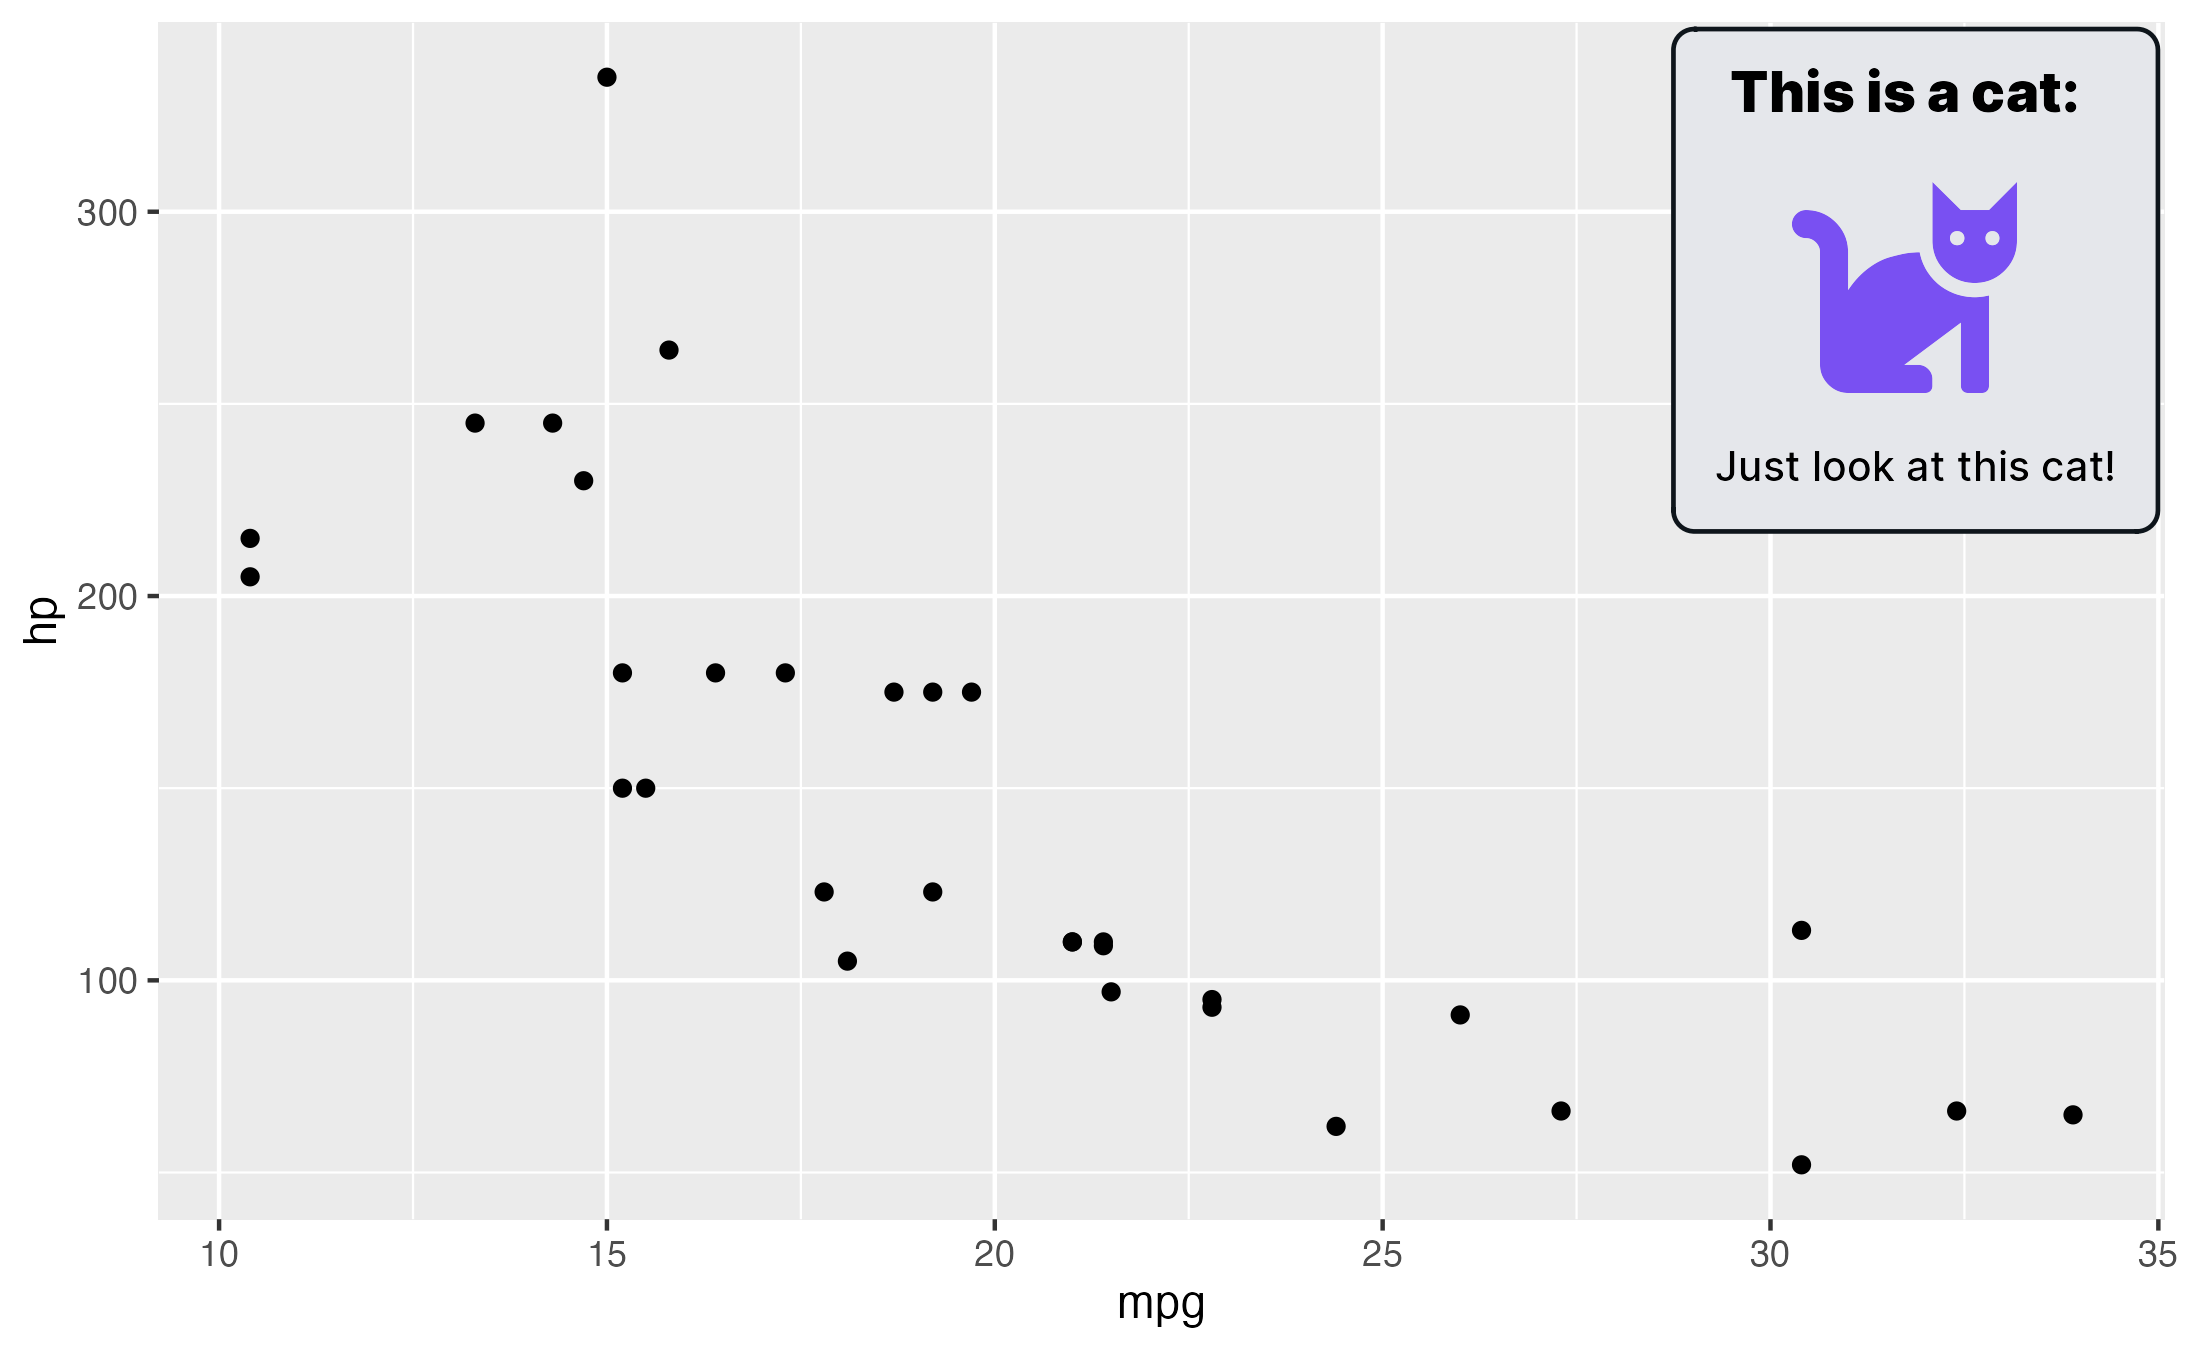
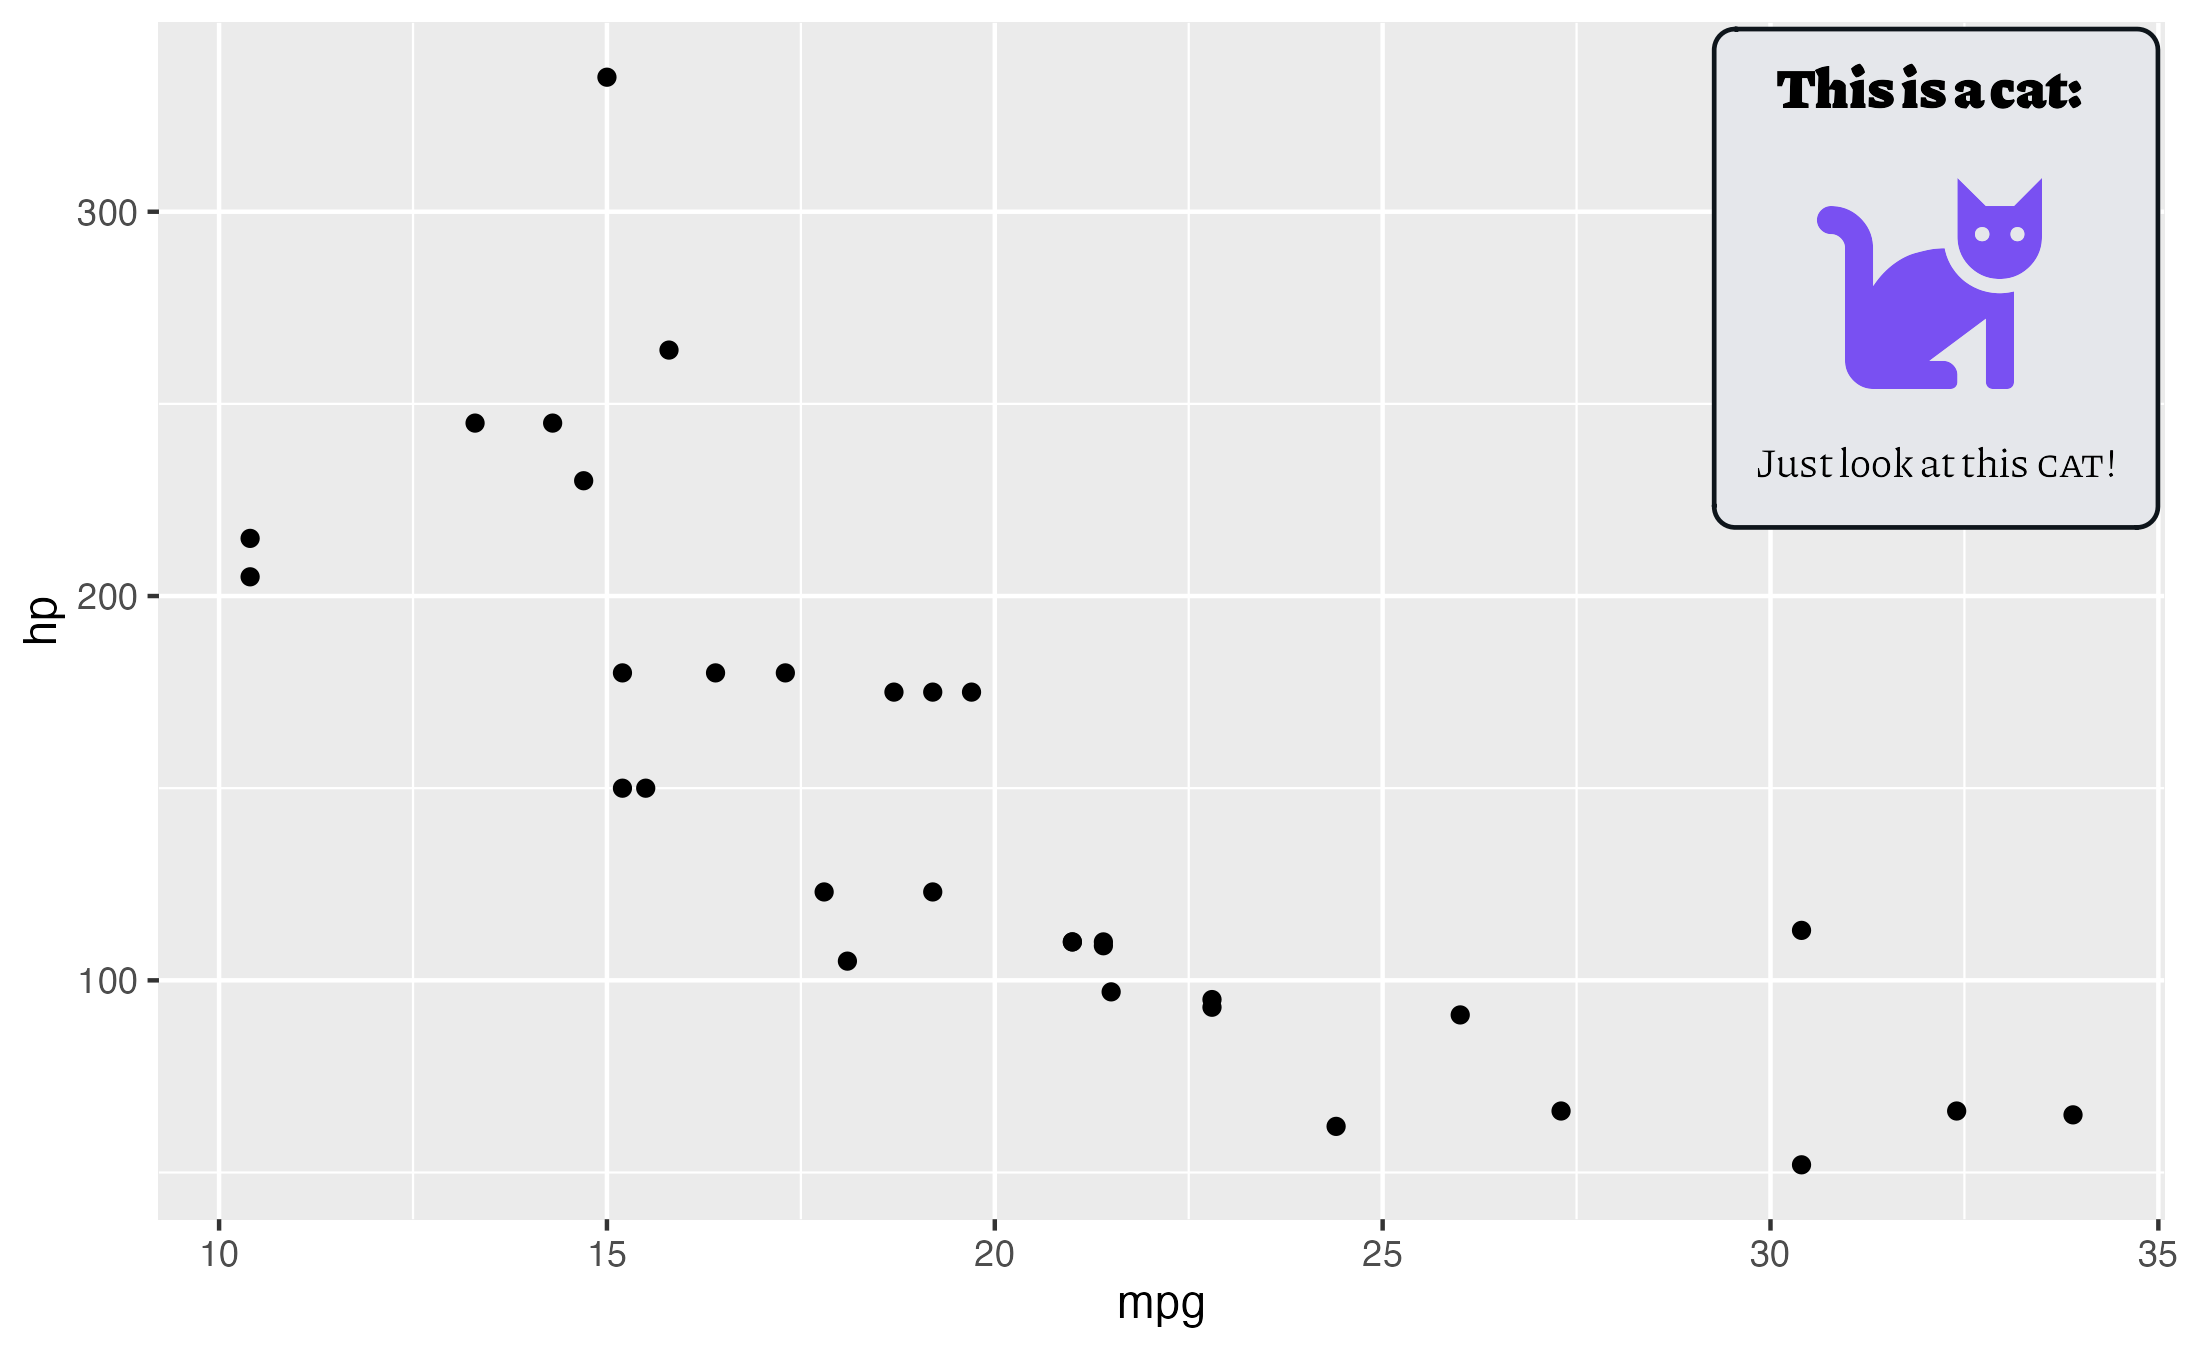
Built site for penngradlings: 0.0.0.9000@8d81452

Changed region(s): [[0.7462, 0.1244, 0.995, 0.4041], [0.7773, 0.0311, 0.9639, 0.0933]]

diff --git a/articles/custom-functions.html b/articles/custom-functions.html
@@ -109,6 +109,7 @@
 <div class="sourceCode" id="cb1"><pre class="downlit sourceCode r">
 <code class="sourceCode R"><span class="kw"><a href="https://rdrr.io/r/base/library.html">library</a></span><span class="op">(</span><span class="va"><a href="https://github.com/yjunechoe/penngradlings">penngradlings</a></span><span class="op">)</span>
 <span class="kw"><a href="https://rdrr.io/r/base/library.html">library</a></span><span class="op">(</span><span class="va"><a href="https://ggplot2.tidyverse.org">ggplot2</a></span><span class="op">)</span>
+<span class="kw"><a href="https://rdrr.io/r/base/library.html">library</a></span><span class="op">(</span><span class="va">grid</span><span class="op">)</span>
 <span class="kw"><a href="https://rdrr.io/r/base/library.html">library</a></span><span class="op">(</span><span class="va"><a href="https://wilkelab.org/gridtext/">gridtext</a></span><span class="op">)</span></code></pre></div>
 </div>
 <div id="themes" class="section level2">
@@ -134,23 +135,38 @@
 </h3>
 <div class="sourceCode" id="cb3"><pre class="downlit sourceCode r">
 <code class="sourceCode R"><span class="va">annotation</span> <span class="op">&lt;-</span> <span class="st">"
-  &lt;span style=\"font-size:18px; font-family:'Inter-Black';\"&gt;
+  &lt;span style=\"font-size:18px; font-family:'Piazzolla-Black';\"&gt;
    This is a cat:&lt;/span&gt;
   &lt;br&gt;&lt;br&gt;
   &lt;span style=\"font-size:72px; color:'#7950F2';
    font-family:'FontAwesome5-Solid';\"&gt;cat&lt;/span&gt;
   &lt;br&gt;&lt;br&gt;
-  Just look at this cat!
+  Just look at this
+  &lt;span style=\"font-family:'PiazzollaSC-Regular';\"&gt;cat!&lt;/span&gt;
 "</span>
 
-<span class="va">tbox</span> <span class="op">&lt;-</span> <span class="fu"><a href="../reference/annotation_textbox.html">annotation_textbox</a></span><span class="op">(</span>
-   html <span class="op">=</span> <span class="va">annotation</span>,
-   position <span class="op">=</span> <span class="st">"top-right"</span>,
-   halign <span class="op">=</span> <span class="fl">0.5</span>
- <span class="op">)</span>
+<span class="va">tbox1</span> <span class="op">&lt;-</span> <span class="fu"><a href="../reference/annotation_textbox.html">annotation_textbox</a></span><span class="op">(</span>
+  html <span class="op">=</span> <span class="va">annotation</span>,
+  position <span class="op">=</span> <span class="st">"top-right"</span>,
+  halign <span class="op">=</span> <span class="fl">0.5</span>,
+<span class="op">)</span>
 
-<span class="va">p</span> <span class="op">+</span> <span class="fu"><a href="https://ggplot2.tidyverse.org/reference/annotation_custom.html">annotation_custom</a></span><span class="op">(</span><span class="va">tbox</span><span class="op">)</span></code></pre></div>
+<span class="va">p</span> <span class="op">+</span> <span class="fu"><a href="https://ggplot2.tidyverse.org/reference/annotation_custom.html">annotation_custom</a></span><span class="op">(</span><span class="va">tbox1</span><span class="op">)</span></code></pre></div>
 <p><img src="custom-functions_files/figure-html/unnamed-chunk-3-1.png" width="1093.75"></p>
+<div class="sourceCode" id="cb4"><pre class="downlit sourceCode r">
+<code class="sourceCode R"><span class="va">tbox2</span> <span class="op">&lt;-</span> <span class="fu"><a href="../reference/annotation_textbox.html">annotation_textbox</a></span><span class="op">(</span>
+  html <span class="op">=</span> <span class="va">annotation</span>,
+  position <span class="op">=</span> <span class="st">"center"</span>,
+  halign <span class="op">=</span> <span class="fl">0.5</span>,
+  valign <span class="op">=</span> <span class="fl">0.5</span>,
+  x_offset <span class="op">=</span> <span class="op">-</span><span class="fl">0.1</span>,
+  y_offset <span class="op">=</span> <span class="fl">0.1</span>,
+  width <span class="op">=</span> <span class="fl">0.4</span>,
+  height <span class="op">=</span> <span class="fl">0.5</span>
+<span class="op">)</span>
+
+<span class="va">p</span> <span class="op">+</span> <span class="fu"><a href="https://ggplot2.tidyverse.org/reference/annotation_custom.html">annotation_custom</a></span><span class="op">(</span><span class="va">tbox2</span><span class="op">)</span></code></pre></div>
+<p><img src="custom-functions_files/figure-html/unnamed-chunk-4-1.png" width="1093.75"></p>
 </div>
 </div>
   </div>

diff --git a/reference/annotation_textbox.html b/reference/annotation_textbox.html
@@ -149,7 +149,7 @@
   height <span class='op'>=</span> <span class='cn'>NULL</span>,
   x_offset <span class='op'>=</span> <span class='fl'>0</span>,
   y_offset <span class='op'>=</span> <span class='fl'>0</span>,
-  gp <span class='op'>=</span> <span class='fu'>grid</span><span class='fu'>::</span><span class='fu'><a href='https://rdrr.io/r/grid/gpar.html'>gpar</a></span><span class='op'>(</span>fontsize <span class='op'>=</span> <span class='fl'>10</span>, lineheight <span class='op'>=</span> <span class='fl'>1.4</span>, fontfamily <span class='op'>=</span> <span class='st'>"Inter-Medium"</span><span class='op'>)</span>,
+  gp <span class='op'>=</span> <span class='fu'>grid</span><span class='fu'>::</span><span class='fu'><a href='https://rdrr.io/r/grid/gpar.html'>gpar</a></span><span class='op'>(</span>fontsize <span class='op'>=</span> <span class='fl'>10</span>, lineheight <span class='op'>=</span> <span class='fl'>1.4</span>, fontfamily <span class='op'>=</span> <span class='st'>"Piazzolla-Regular"</span><span class='op'>)</span>,
   box_gp <span class='op'>=</span> <span class='fu'>grid</span><span class='fu'>::</span><span class='fu'><a href='https://rdrr.io/r/grid/gpar.html'>gpar</a></span><span class='op'>(</span>col <span class='op'>=</span> <span class='st'>"#0E151B"</span>, fill <span class='op'>=</span> <span class='st'>"#e5e7eb"</span>, lwd <span class='op'>=</span> <span class='fu'>grid</span><span class='fu'>::</span><span class='fu'><a href='https://rdrr.io/r/grid/unit.html'>unit</a></span><span class='op'>(</span><span class='fl'>1.5</span>, <span class='st'>"pt"</span><span class='op'>)</span><span class='op'>)</span>,
   padding <span class='op'>=</span> <span class='fu'>grid</span><span class='fu'>::</span><span class='fu'><a href='https://rdrr.io/r/grid/unit.html'>unit</a></span><span class='op'>(</span><span class='fu'><a href='https://rdrr.io/r/base/rep.html'>rep</a></span><span class='op'>(</span><span class='fl'>10</span>, <span class='fl'>4</span><span class='op'>)</span>, <span class='st'>"pt"</span><span class='op'>)</span>,
   <span class='va'>margin</span>,

diff --git a/reference/load_pkg_fonts.html b/reference/load_pkg_fonts.html
@@ -165,12 +165,12 @@
     
 
 <dl>
-<dt><code>Charis SIL</code></dt><dd><p>From SIL International: <a href='https://software.sil.org/charis/'>https://software.sil.org/charis/</a>.</p></dd>
-<dt><code>Inter</code></dt><dd><p>From Google Fonts: <a href='https://fonts.google.com/specimen/Inter'>https://fonts.google.com/specimen/Inter</a>.</p></dd>
-<dt><code>Lato</code></dt><dd><p>From Google Fonts: <a href='https://fonts.google.com/specimen/Roboto'>https://fonts.google.com/specimen/Roboto</a>.</p></dd>
-<dt><code>Bootstrap Icons</code></dt><dd><p>From Bootstrap <a href='https://icons.getbootstrap.com/'>https://icons.getbootstrap.com/</a>.</p></dd>
-<dt><code>Material Icons</code></dt><dd><p>From Google Fonts <a href='https://fonts.google.com/icons/'>https://fonts.google.com/icons/</a>.</p></dd>
-<dt><code>Font Awesome 5 Free</code></dt><dd><p>From Font Awesome <a href='https://fontawesome.com/'>https://fontawesome.com/</a>.</p></dd>
+<dt><code>Charis SIL</code></dt><dd><p>by SIL international, retrieved from <a href='https://software.sil.org/charis/'>https://software.sil.org/charis/</a>.</p></dd>
+<dt><code>Inter</code></dt><dd><p>by Rasmus Andersson, retrieved from <a href='https://fonts.google.com/specimen/Inter'>https://fonts.google.com/specimen/Inter</a>.</p></dd>
+<dt><code>Piazzolla</code></dt><dd><p>by Juan Pablo del Peral, retrieved from <a href='https://fonts.google.com/specimen/Piazzolla'>https://fonts.google.com/specimen/Piazzolla</a>.</p></dd>
+<dt><code>Bootstrap Icons</code></dt><dd><p>by The Bootstrap Authors, retrieved from <a href='https://icons.getbootstrap.com/'>https://icons.getbootstrap.com/</a>.</p></dd>
+<dt><code>Material Icons</code></dt><dd><p>by Google Design, retrieved from <a href='https://fonts.google.com/icons/'>https://fonts.google.com/icons/</a>.</p></dd>
+<dt><code>Font Awesome 5 Free</code></dt><dd><p>by Dave Gandy <a href='https://fontawesome.com/'>https://fontawesome.com/</a>.</p></dd>
 The free version contains a subset of the Regular, Solid, and Brand styles:
 https://fontawesome.com/v5.15/icons?d=gallery&amp;p=2&amp;s=brands,regular,solid&amp;m=free.
 
